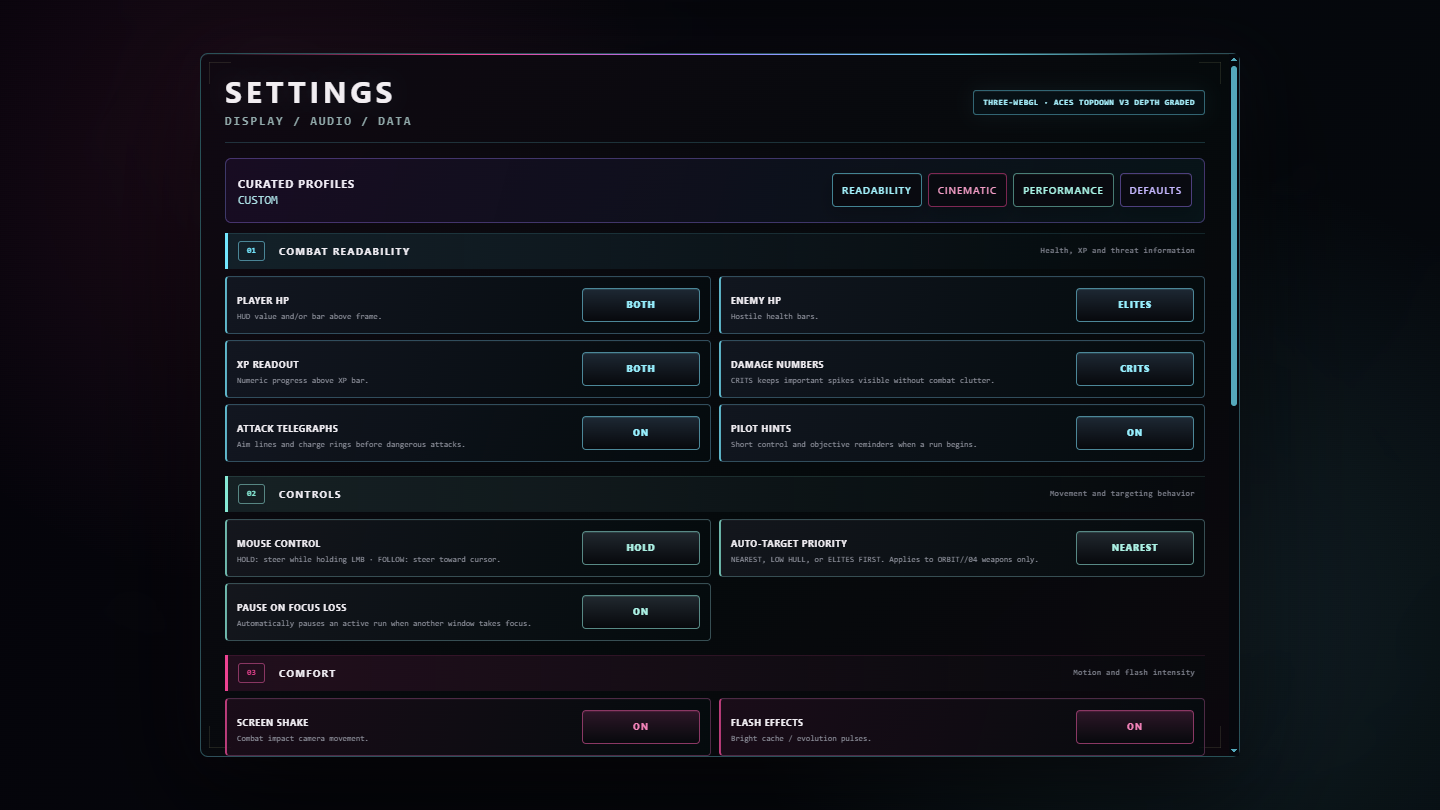
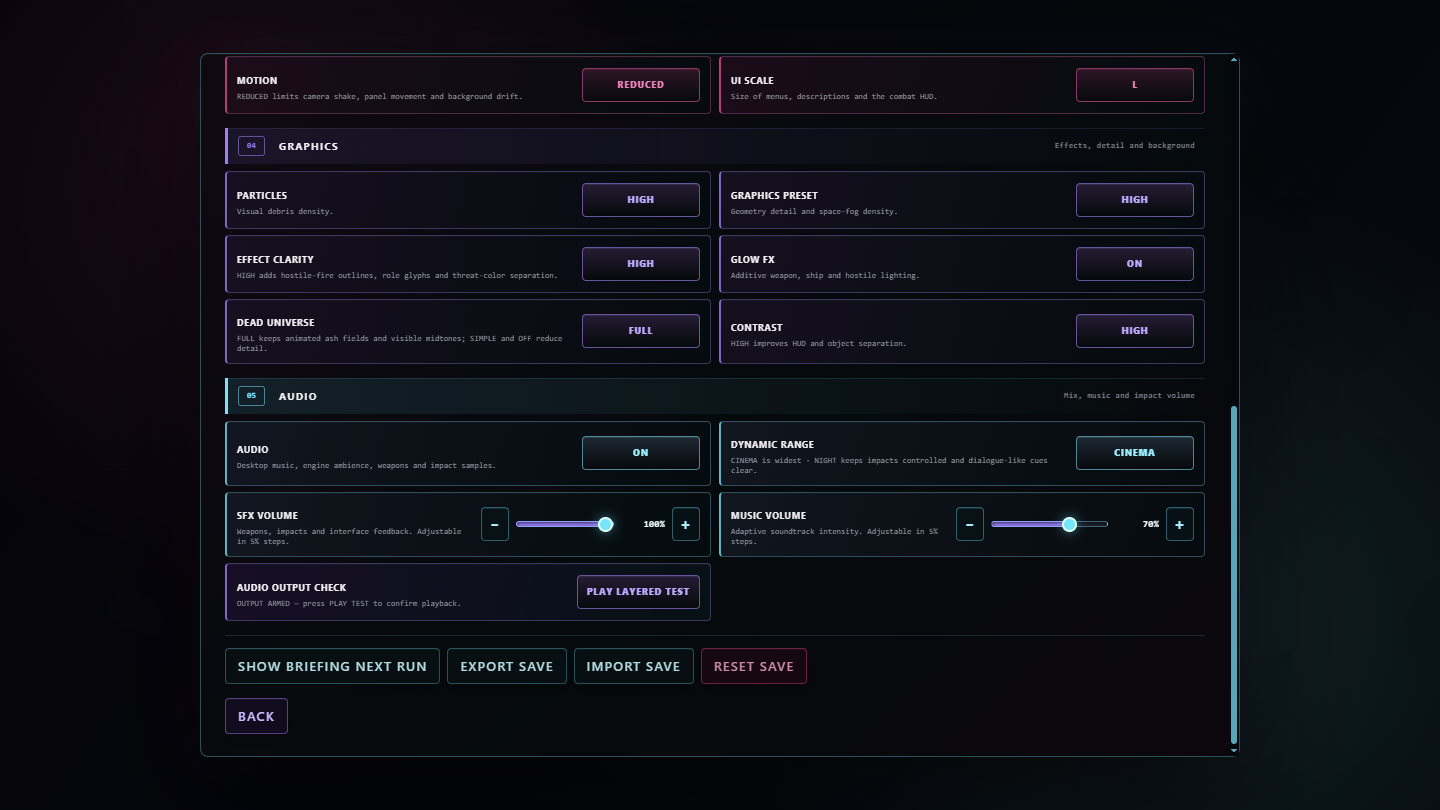
feat: sharpen release presentation and audio controls

diff --git a/game.js b/game.js
@@ -153,7 +153,7 @@ const AUDIO=(()=>{
   function playSample(name,value=0,boost=1,position=null){const mapped=sampleMap[name],key=Array.isArray(mapped)?mapped[(Math.random()*mapped.length)|0]:mapped;if(!key||!audioScene?.cache.audio.exists(`audio-${key}`))return false;attempts++;recoverManager();const profile=mixProfile(),base=mixValue(save.settings.sfxVolume,1),routine=['pulse','kill','enemyShot','drone','flak'].includes(name),micro=(Math.random()-.5)*(routine?.024:.014),rate=(name==='kill'?.92+Math.random()*.09:name==='elite'?.94+Math.random()*.045:name==='enemyShot'?.97+Math.random()*.045:name==='crit'?.99:name==='install'?.97:1)+micro,impact=['boss','bossDown','death','nova','rift','mine','hit','elite','rail','flak'].includes(name),level=VOICE_LEVELS[name]??.60,space=spatialMix(position),activeEnemies=state?.enemies?.reduce?.((count,enemy)=>count+(!enemy.dead?1:0),0)||0,crowdAttenuation=routine?1-Math.min(.34,Math.max(0,activeEnemies-54)*.0034):1,volume=base*level*profile.sfx*(impact?profile.impact:1)*boost*space.gain*crowdAttenuation,config={volume:clamp(volume,0,1),rate:clamp(rate,.78,1.14),pan:space.pan};try{const played=audioScene.sound.play(`audio-${key}`,config);if(played===false){lastError=`Sample playback rejected: ${key}`;return false}if(Math.abs(space.pan)>.02)spatialVoices++;const layer=cinematicLayers[name];if(layer&&audioScene.cache.audio.exists(`audio-${layer.key}`))audioScene.sound.play(`audio-${layer.key}`,{volume:clamp(base*profile.sfx*profile.impact*layer.volume*boost*space.gain,0,1),rate:layer.rate,pan:space.pan*.65});const material=materialLayers[name];if(material&&audioScene.cache.audio.exists(`audio-${material.key}`))audioScene.sound.play(`audio-${material.key}`,{volume:clamp(base*profile.sfx*material.volume*boost*space.gain,0,1),rate:material.rate,pan:space.pan});lastSuccess=performance.now();lastError='';return true}catch(error){lastError=error?.message||String(error);return false}}
   function updateSampleMusic(info={}){
     const keys=['exploration','exploration_alt','combat','combat_alt','pressure','boss','boss_alt','climax','fracture'];if(!audioScene||keys.some(k=>!audioScene.cache.audio.exists(`audio-music_${k}`))||!unlockSamples())return false;
-    if(!enabled()||save.settings.musicVolume==='OFF'){for(const track of Object.values(musicTracks))track.stop();ambienceTrack?.stop();return true}
+    if(!enabled()||mixValue(save.settings.musicVolume,.7)<=0){for(const track of Object.values(musicTracks))track.stop();ambienceTrack?.stop();return true}
     try{for(const key of keys){if(!musicTracks[key]){const track=audioScene.sound.add(`audio-music_${key}`,{loop:true,volume:0});track._orbitGain=0;musicTracks[key]=track}if(!musicTracks[key].isPlaying&&!musicTracks[key].isPaused&&musicTracks[key].play()===false)return false}if(!ambienceTrack&&audioScene.cache.audio.exists('audio-engine_loop')){ambienceTrack=audioScene.sound.add('audio-engine_loop',{loop:true,volume:0,rate:.82});ambienceTrack._orbitGain=0}if(ambienceTrack&&!ambienceTrack.isPlaying&&!ambienceTrack.isPaused)ambienceTrack.play()}catch(error){lastError=error?.message||String(error);return false}
     musicDuck+=(1-musicDuck)*.016;const threat=info.threat||1,drive=info.drive||0,chain=info.chain||0,pressure=clamp((threat-1)*.105+drive*.12+Math.min(.18,chain*.004)+(info.rush?.32:0)+(info.redline?.10:0),0,1),passage=Math.floor((info.time||0)/56)%4,bossAlternate=(Math.floor((info.time||0)/32)+(info.bossStage||0))%2===0,bossPhase=info.bossPhase||1,targets={exploration:0,exploration_alt:0,combat:0,combat_alt:0,pressure:0,boss:0,boss_alt:0,climax:0,fracture:0};
     if(passage!==musicPassage){musicPassage=passage;musicRotationCount++}
@@ -452,6 +452,7 @@ function cycleUnlockedFrame(direction=1){
 function renderMenu(){
   $('saveLine').textContent=`${save.credits} CR · BEST ${Math.floor(save.bestScore)}`;
   $('researchLevelText').textContent=researchLevels();$('achievementCountText').textContent=`${save.achievements.length}/${Object.keys(ACHIEVEMENTS).length}`;$('lifetimeKillsText').textContent=save.totalKills;$('operationCountText').textContent=`${save.claimedOperations.length}/${Object.keys(OPERATIONS).length}${readyOperations().length?` · ${readyOperations().length} READY`:''}`;
+  $('contentFrameCount').textContent=Object.keys(SHIPS).length;$('contentWeaponCount').textContent=Object.keys(WEAPON_META).length;$('contentEnemyCount').textContent=Object.keys(ENEMY_META).filter(id=>id!=='boss').length;$('contentLinkCount').textContent=Object.keys(SYNERGIES).length;$('contentSectorCount').textContent=Object.keys(SECTORS).length;
   const d=DIFFICULTIES[save.difficulty]||DIFFICULTIES.STANDARD;$('difficultyBtn').textContent=d.name;$('difficultyBtn').title=d.desc;$('difficultyBtn').setAttribute('aria-label',`Current difficulty: ${d.name}. ${d.desc}`);$('difficultyDesc').textContent=d.desc;const contract=CONTRACTS[save.contract]||CONTRACTS.NONE;$('contractBtn').textContent=contract.name;$('contractBtn').title=contract.desc;$('contractBtn').setAttribute('aria-label',`Current contract: ${contract.name}. ${contract.desc}`);$('contractDesc').textContent=contract.desc;const sector=SECTORS[save.sector]||SECTORS.AURORA;$('sectorBtn').textContent=sector.name;$('sectorBtn').title=sector.desc;$('sectorBtn').setAttribute('aria-label',`Current sector: ${sector.name}. ${sector.desc}`);$('sectorDesc').textContent=sector.desc;
   const selectedId=save.unlocked.includes(save.selected)&&SHIPS[save.selected]?save.selected:'striker';if(save.selected!==selectedId)save.selected=selectedId;renderFrameBrief(selectedId);
   const selectedShip=SHIPS[selectedId];$('launchSummary').innerHTML=`<span>${uiIconMarkup('launch')} READY</span><b>${selectedShip.name}</b><i>${uiIconMarkup('sector')} ${sector.name} <em>·</em> ${uiIconMarkup('threat')} ${d.name} <em>·</em> ${uiIconMarkup('contract')} ${contract.name}</i>`;$('startBtn').innerHTML=`${uiIconMarkup('launch')}<span>DEPLOY ${selectedShip.name}</span><kbd>ENTER</kbd>`;
@@ -488,8 +489,9 @@ function renderCodex(){
     for(const [id,x] of Object.entries(ARTIFACTS)){const known=save.discoveredArtifacts.includes(id),d=document.createElement('div');d.className='codexCard';d.innerHTML=`<b>${known?x.name:'UNKNOWN ARTIFACT'}</b><span>${known?x.desc:'Rare telemetry not yet recovered.'}</span>`;c.appendChild(d)}
   }
 }
-const SETTING_CYCLES={playerHp:['OFF','HUD','BAR','BOTH'],enemyHp:['OFF','ELITES','ALL'],xpReadout:['OFF','VALUE','PERCENT','BOTH'],damageNumbers:['CRITS','ALL','OFF'],telegraphs:['ON','OFF'],hints:['ON','OFF'],mouse:['HOLD','FOLLOW','OFF'],targetPriority:['NEAREST','LOW HULL','ELITES FIRST'],autoPause:['ON','OFF'],shake:['ON','OFF'],flash:['ON','OFF'],motion:['FULL','REDUCED'],uiScale:['LARGE','XL','XXL'],particles:['HIGH','LOW','OFF'],graphics:['ULTRA','HIGH','MEDIUM','LOW'],effectClarity:['HIGH','BALANCED','CINEMATIC'],glow:['ON','OFF'],background:['FULL','SIMPLE','OFF'],contrast:['NORMAL','HIGH'],audio:['ON','OFF'],audioMix:['CINEMA','BALANCED','NIGHT'],sfxVolume:['100%','75%','50%','25%'],musicVolume:['100%','70%','40%','OFF']};
-const SETTING_BUTTONS={playerHp:'playerHpSetting',enemyHp:'enemyHpSetting',xpReadout:'xpSetting',damageNumbers:'damageNumbersSetting',telegraphs:'telegraphSetting',hints:'hintsSetting',mouse:'mouseSetting',targetPriority:'targetPrioritySetting',autoPause:'autoPauseSetting',shake:'shakeSetting',flash:'flashSetting',motion:'motionSetting',uiScale:'uiScaleSetting',particles:'particleSetting',graphics:'graphicsSetting',effectClarity:'effectClaritySetting',glow:'glowSetting',background:'backgroundSetting',contrast:'contrastSetting',audio:'audioSetting',audioMix:'audioMixSetting',sfxVolume:'sfxVolumeSetting',musicVolume:'musicVolumeSetting'};
+const SETTING_CYCLES={playerHp:['OFF','HUD','BAR','BOTH'],enemyHp:['OFF','ELITES','ALL'],xpReadout:['OFF','VALUE','PERCENT','BOTH'],damageNumbers:['CRITS','ALL','OFF'],telegraphs:['ON','OFF'],hints:['ON','OFF'],mouse:['HOLD','FOLLOW','OFF'],targetPriority:['NEAREST','LOW HULL','ELITES FIRST'],autoPause:['ON','OFF'],shake:['ON','OFF'],flash:['ON','OFF'],motion:['FULL','REDUCED'],uiScale:['LARGE','XL','XXL'],particles:['HIGH','LOW','OFF'],graphics:['ULTRA','HIGH','MEDIUM','LOW'],effectClarity:['HIGH','BALANCED','CINEMATIC'],glow:['ON','OFF'],background:['FULL','SIMPLE','OFF'],contrast:['NORMAL','HIGH'],audio:['ON','OFF'],audioMix:['CINEMA','BALANCED','NIGHT']};
+const SETTING_BUTTONS={playerHp:'playerHpSetting',enemyHp:'enemyHpSetting',xpReadout:'xpSetting',damageNumbers:'damageNumbersSetting',telegraphs:'telegraphSetting',hints:'hintsSetting',mouse:'mouseSetting',targetPriority:'targetPrioritySetting',autoPause:'autoPauseSetting',shake:'shakeSetting',flash:'flashSetting',motion:'motionSetting',uiScale:'uiScaleSetting',particles:'particleSetting',graphics:'graphicsSetting',effectClarity:'effectClaritySetting',glow:'glowSetting',background:'backgroundSetting',contrast:'contrastSetting',audio:'audioSetting',audioMix:'audioMixSetting'};
+const VOLUME_CONTROLS={sfxVolume:{slider:'sfxVolumeSlider',output:'sfxVolumeSetting',down:'sfxVolumeDown',up:'sfxVolumeUp',fallback:100},musicVolume:{slider:'musicVolumeSlider',output:'musicVolumeSetting',down:'musicVolumeDown',up:'musicVolumeUp',fallback:70}};
 const SETTING_PRESETS={
   READABILITY:{label:'READABILITY',values:{playerHp:'BOTH',enemyHp:'ALL',xpReadout:'BOTH',damageNumbers:'CRITS',telegraphs:'ON',targetPriority:'NEAREST',autoPause:'ON',shake:'OFF',flash:'OFF',motion:'REDUCED',uiScale:'XXL',particles:'LOW',graphics:'HIGH',effectClarity:'HIGH',glow:'ON',background:'SIMPLE',contrast:'HIGH',audioMix:'NIGHT'}},
   CINEMATIC:{label:'CINEMATIC',values:{playerHp:'BOTH',enemyHp:'ELITES',xpReadout:'BOTH',damageNumbers:'CRITS',telegraphs:'ON',targetPriority:'NEAREST',autoPause:'ON',shake:'ON',flash:'ON',motion:'FULL',uiScale:'XL',particles:'HIGH',graphics:'ULTRA',effectClarity:'CINEMATIC',glow:'ON',background:'FULL',contrast:'NORMAL',audioMix:'CINEMA'}},
@@ -500,10 +502,14 @@ const PRESET_BUTTONS={READABILITY:'readabilityPresetBtn',CINEMATIC:'cinematicPre
 function applyDisplaySettings(){wrap.dataset.uiScale=save.settings.uiScale||'XL';wrap.dataset.contrast=save.settings.contrast||'HIGH';wrap.dataset.motion=save.settings.motion||'FULL';wrap.dataset.effectClarity=save.settings.effectClarity||'HIGH';AUDIO.setMix()}
 function matchingSettingsPreset(){return Object.entries(SETTING_PRESETS).find(([_id,preset])=>Object.entries(preset.values).every(([key,value])=>save.settings[key]===value))?.[0]||''}
 function renderAudioStatus(){const audio=AUDIO.status();$('audioStatusText').textContent=!audio.enabled?'MUTED IN GAME — set AUDIO to ON or press PLAY TEST.':audio.muted?'OUTPUT MUTED BY RENDERER — press PLAY TEST.':audio.confirmed?`OUTPUT ACTIVE — ${audio.mix} MIX · ${audio.library} · music ${audio.musicPlaying} · engine ${audio.ambiencePlaying?'ON':'STANDBY'}.`:audio.error?`OUTPUT ERROR — ${audio.error}`:audio.locked?'WAITING FOR INPUT — click PLAY TEST to unlock audio.':`OUTPUT ARMED — press PLAY TEST to confirm playback.`}
-function renderSettings(){applyDisplaySettings();for(const [k,id] of Object.entries(SETTING_BUTTONS))$(id).textContent=save.settings[k];const active=matchingSettingsPreset();$('settingsPresetStatus').textContent=active?`${SETTING_PRESETS[active].label} ACTIVE`:'CUSTOM';for(const [id,buttonId] of Object.entries(PRESET_BUTTONS))$(buttonId).classList.toggle('selected',id===active);const renderer=(canvas.dataset.renderer||'initializing').toUpperCase(),pipeline=(canvas.dataset.renderPipeline||'adaptive').replaceAll('-',' ').toUpperCase();$('rendererStatusText').textContent=`${renderer} · ${pipeline}`;renderAudioStatus()}
+function volumePercent(value,fallback=100){if(value==='OFF')return 0;const parsed=parseInt(value,10);return Number.isFinite(parsed)?clamp(Math.round(parsed/5)*5,0,100):fallback}
+function renderVolumeControls(){for(const [key,control] of Object.entries(VOLUME_CONTROLS)){const value=volumePercent(save.settings[key],control.fallback);$(control.slider).value=String(value);$(control.output).textContent=`${value}%`;$(control.output).value=`${value}%`;$(control.slider).style.setProperty('--volume-fill',`${value}%`)}}
+function setVolumeSetting(key,raw,{commit=true,feedback=false}={}){const control=VOLUME_CONTROLS[key];if(!control)return false;const value=volumePercent(raw,control.fallback);save.settings[key]=`${value}%`;renderVolumeControls();AUDIO.setMix();if(commit)persist(false);if(feedback&&value>0)AUDIO.sfx('ui');return value}
+function nudgeVolume(key,direction){const control=VOLUME_CONTROLS[key],current=volumePercent(save.settings[key],control?.fallback||100);return setVolumeSetting(key,current+(direction<0?-5:5),{commit:true,feedback:true})}
+function renderSettings(){applyDisplaySettings();for(const [k,id] of Object.entries(SETTING_BUTTONS))$(id).textContent=save.settings[k];renderVolumeControls();const active=matchingSettingsPreset();$('settingsPresetStatus').textContent=active?`${SETTING_PRESETS[active].label} ACTIVE`:'CUSTOM';for(const [id,buttonId] of Object.entries(PRESET_BUTTONS))$(buttonId).classList.toggle('selected',id===active);const renderer=(canvas.dataset.renderer||'initializing').toUpperCase(),pipeline=(canvas.dataset.renderPipeline||'adaptive').replaceAll('-',' ').toUpperCase();$('rendererStatusText').textContent=`${renderer} · ${pipeline}`;renderAudioStatus()}
 function cycleSetting(key){const a=SETTING_CYCLES[key],i=Math.max(0,a.indexOf(save.settings[key]));save.settings[key]=a[(i+1)%a.length];persist(false);if(key==='audio')AUDIO.syncEnabled();renderSettings();AUDIO.sfx('ui')}
 function applySettingsPreset(id){const preset=SETTING_PRESETS[id];if(!preset)return false;Object.assign(save.settings,preset.values);persist(false);renderSettings();AUDIO.sfx('ui');toast(`${preset.label} PROFILE`,'Settings applied. Individual controls remain editable.');return true}
-function testAudioOutput(){if(save.settings.audio!=='ON')save.settings.audio='ON';if(save.settings.sfxVolume==='25%')save.settings.sfxVolume='50%';persist(false);AUDIO.syncEnabled();AUDIO.testOutput();renderSettings();setTimeout(renderAudioStatus,320);toast('AUDIO OUTPUT CHECK','Layered startup cue sent through both audio paths.')}
+function testAudioOutput(){if(save.settings.audio!=='ON')save.settings.audio='ON';if(volumePercent(save.settings.sfxVolume,100)<25)save.settings.sfxVolume='50%';persist(false);AUDIO.syncEnabled();AUDIO.testOutput();renderSettings();setTimeout(renderAudioStatus,320);toast('AUDIO OUTPUT CHECK','Layered startup cue sent through both audio paths.')}
 function openOverlay(id){if(state?.mode==='run'&&!state.paused&&!state.choosing)pause(true);show(id);AUDIO.sfx('ui')}
 function closeOverlay(id){hide(id);AUDIO.sfx('ui')}
 
@@ -512,7 +518,10 @@ $('sectorPrev').onclick=()=>{AUDIO.sfx('ui');nextSector(-1)};$('sectorBtn').oncl
 $('contractPrev').onclick=()=>{AUDIO.sfx('ui');nextContract(-1)};$('contractBtn').onclick=$('contractNext').onclick=()=>{AUDIO.sfx('ui');nextContract(1)};
 $('researchBtn').onclick=()=>{renderResearch();openOverlay('researchScreen')};$('operationsBtn').onclick=()=>{renderOperations();openOverlay('operationsScreen')};$('achievementsBtn').onclick=()=>{renderAchievements();openOverlay('achievementsScreen')};$('codexBtn').onclick=()=>{renderCodex();openOverlay('codexScreen')};
 $('settingsBtn').onclick=()=>{renderSettings();openOverlay('settingsScreen')};$('pauseSettingsBtn').onclick=()=>{renderSettings();show('settingsScreen')};$('settingsBackBtn').onclick=()=>closeOverlay('settingsScreen');
+function applyRecommendedSetup(){const changed=save.difficulty!=='STANDARD'||save.sector!=='AURORA'||save.contract!=='NONE';save.difficulty='STANDARD';save.sector='AURORA';save.contract='NONE';persist(false);renderMenu();AUDIO.sfx('ui');toast(changed?'RECOMMENDED SETUP APPLIED':'RECOMMENDED SETUP ACTIVE','Standard threat · The Ash Field · No contract modifiers.');return changed}
+$('recommendedSetupBtn').onclick=applyRecommendedSetup;
 for(const [k,id] of Object.entries(SETTING_BUTTONS))$(id).onclick=()=>cycleSetting(k);
+for(const [key,control] of Object.entries(VOLUME_CONTROLS)){const slider=$(control.slider);slider.oninput=()=>setVolumeSetting(key,slider.value,{commit:false});slider.onchange=()=>setVolumeSetting(key,slider.value,{commit:true,feedback:key==='sfxVolume'});$(control.down).onclick=()=>nudgeVolume(key,-1);$(control.up).onclick=()=>nudgeVolume(key,1)}
 for(const [id,buttonId] of Object.entries(PRESET_BUTTONS))$(buttonId).onclick=()=>applySettingsPreset(id);
 $('testAudioBtn').onclick=testAudioOutput;
 for(const b of document.querySelectorAll('[data-close]'))b.onclick=()=>closeOverlay(b.dataset.close);
@@ -775,9 +784,12 @@ $('skipBtn').onclick=()=>{if(state.skips<=0)return;state.skips--;state.pinnedOff
 addEventListener('keydown',e=>{if(!state?.choosing)return;const i=Number(e.key)-1;if(i<0)return;if(state.choiceMode==='doctrine'){const o=state.currentDoctrineOffers?.[i];if(o)selectDoctrine(o.id)}else{const o=state.currentOffers?.[i];if(o)selectOffer(o)}});
 
 // ---------- RUN START / SPAWNING ----------
-function openPilotBriefing(){if(!state||state.gameOver)return false;state.paused=true;show('briefingScreen');$('briefingLaunchBtn').focus?.({preventScroll:true});return true}
-function dismissPilotBriefing(){if(!$('briefingScreen').classList.contains('show')||!state)return false;hide('briefingScreen');save.briefingSeen=true;persist(false);state.paused=false;state.last=performance.now();AUDIO.sfx('resume');rewardCue('AUTO-FIRE ONLINE','MOVE · COLLECT · INSTALL · SURVIVE',1,1300);return true}
+let briefingPreviewMode=false;
+function previewPilotBriefing(){briefingPreviewMode=true;show('briefingScreen');$('briefingLaunchBtn').innerHTML=`RETURN TO HANGAR <kbd>ESC</kbd>`;$('briefingLaunchBtn').focus?.({preventScroll:true});AUDIO.sfx('ui');return true}
+function openPilotBriefing(){if(!state||state.gameOver)return false;briefingPreviewMode=false;state.paused=true;$('briefingLaunchBtn').innerHTML=`BEGIN TRANSMISSION <kbd>ENTER</kbd>`;show('briefingScreen');$('briefingLaunchBtn').focus?.({preventScroll:true});return true}
+function dismissPilotBriefing(){if(!$('briefingScreen').classList.contains('show'))return false;hide('briefingScreen');if(briefingPreviewMode){briefingPreviewMode=false;save.briefingSeen=true;persist(false);$('briefingMenuBtn').focus?.({preventScroll:true});AUDIO.sfx('ui');return true}if(!state)return false;save.briefingSeen=true;persist(false);state.paused=false;state.last=performance.now();AUDIO.sfx('resume');rewardCue('AUTO-FIRE ONLINE','MOVE · COLLECT · INSTALL · SURVIVE',1,1300);return true}
 $('briefingLaunchBtn').onclick=dismissPilotBriefing;
+$('briefingMenuBtn').onclick=previewPilotBriefing;
 function startRun(){
   cancelResumeCountdown(false);
   const frame=SHIPS[save.selected],diff=DIFFICULTIES[save.difficulty]||DIFFICULTIES.STANDARD,contract=CONTRACTS[save.contract]||CONTRACTS.NONE,sector=SECTORS[save.sector]||SECTORS.AURORA,now=performance.now(),mastery=masteryLevel(save.selected),directiveId=selectFieldDirective();

diff --git a/tests/smoke.js b/tests/smoke.js
@@ -38,7 +38,7 @@ vm.runInContext(`
   bootRenderer();
   if(rendererConfig?.type!==Phaser.WEBGL) throw new Error('renderer type must be explicit when using a custom canvas');
   if(!rendererConfig.render.antialiasGL||!rendererConfig.render.desynchronized||rendererConfig.fps.target!==120) throw new Error('premium renderer profile is incomplete');
-  save.settings.audio='OFF';document.getElementById('difficultyPrev').onclick();if(save.difficulty!=='HARDLINE') throw new Error('previous difficulty control failed');document.getElementById('difficultyNext').onclick();if(save.difficulty!=='STANDARD') throw new Error('next difficulty control failed');document.getElementById('contractPrev').onclick();if(save.contract!=='FRAGILE') throw new Error('previous contract control failed');document.getElementById('contractNext').onclick();if(save.contract!=='NONE') throw new Error('next contract control failed');if(!document.getElementById('launchSummary').innerHTML.includes('WATCHKEEPER')||!document.getElementById('startBtn').innerHTML.includes('DEPLOY WATCHKEEPER')||!document.getElementById('startBtn').innerHTML.includes('ENTER')) throw new Error('deployment summary is incomplete');if(!document.getElementById('framePrevBtn').disabled||!document.getElementById('frameNextBtn').disabled)throw new Error('single-frame hangar navigation should be disabled');save.unlocked.push('bastion');if(!cycleUnlockedFrame(1)||save.selected!=='bastion')throw new Error('next-frame hangar shortcut failed');if(!cycleUnlockedFrame(-1)||save.selected!=='striker')throw new Error('previous-frame hangar shortcut failed');save.unlocked.pop();renderMenu();
+  save.settings.audio='OFF';document.getElementById('difficultyPrev').onclick();if(save.difficulty!=='HARDLINE') throw new Error('previous difficulty control failed');document.getElementById('difficultyNext').onclick();if(save.difficulty!=='STANDARD') throw new Error('next difficulty control failed');document.getElementById('contractPrev').onclick();if(save.contract!=='FRAGILE') throw new Error('previous contract control failed');document.getElementById('contractNext').onclick();if(save.contract!=='NONE') throw new Error('next contract control failed');if(!document.getElementById('launchSummary').innerHTML.includes('WATCHKEEPER')||!document.getElementById('startBtn').innerHTML.includes('DEPLOY WATCHKEEPER')||!document.getElementById('startBtn').innerHTML.includes('ENTER')) throw new Error('deployment summary is incomplete');if(Number(document.getElementById('contentFrameCount').textContent)!==10||Number(document.getElementById('contentWeaponCount').textContent)!==11||Number(document.getElementById('contentEnemyCount').textContent)!==13||Number(document.getElementById('contentLinkCount').textContent)!==9||Number(document.getElementById('contentSectorCount').textContent)!==4)throw new Error('menu content proof does not match runtime data');save.difficulty='BLACKOUT';save.sector='NULL';save.contract='SWARM';if(!applyRecommendedSetup()||save.difficulty!=='STANDARD'||save.sector!=='AURORA'||save.contract!=='NONE')throw new Error('recommended first-run setup failed');save.briefingSeen=false;if(!previewPilotBriefing()||!document.getElementById('briefingScreen').classList.contains('show')||!dismissPilotBriefing()||document.getElementById('briefingScreen').classList.contains('show')||!save.briefingSeen)throw new Error('menu pilot guide preview failed');if(!document.getElementById('framePrevBtn').disabled||!document.getElementById('frameNextBtn').disabled)throw new Error('single-frame hangar navigation should be disabled');save.unlocked.push('bastion');if(!cycleUnlockedFrame(1)||save.selected!=='bastion')throw new Error('next-frame hangar shortcut failed');if(!cycleUnlockedFrame(-1)||save.selected!=='striker')throw new Error('previous-frame hangar shortcut failed');save.unlocked.pop();renderMenu();
   if(selectFieldDirective()!=='recovery') throw new Error('first directive rotation is incorrect');save.runs=1;if(selectFieldDirective()!=='transit') throw new Error('second directive rotation is incorrect');save.runs=2;if(selectFieldDirective()!=='attrition') throw new Error('third directive rotation is incorrect');save.runs=0;startRun();
   save.briefingSeen=false;if(!openPilotBriefing()||!state.paused||!document.getElementById('briefingScreen').classList.contains('show'))throw new Error('first-deployment briefing did not suspend the run');if(!dismissPilotBriefing()||state.paused||!save.briefingSeen||document.getElementById('briefingScreen').classList.contains('show'))throw new Error('first-deployment briefing did not persist completion');
   const exitProbe=desktopExitState();if(!exitProbe.active||exitProbe.frame!=='WATCHKEEPER')throw new Error('desktop exit state did not identify the active run');document.getElementById('briefingResetBtn').onclick();if(save.briefingSeen)throw new Error('briefing replay control did not arm the next run');save.briefingSeen=true;
@@ -80,6 +80,7 @@ vm.runInContext(`
   state.time=83; if(desiredBackground()!=='pulsar') throw new Error('background director did not advance'); state.time=0;
   save.settings.uiScale='XXL'; save.settings.contrast='HIGH'; renderSettings();
   if(document.getElementById('wrap').dataset.uiScale!=='XXL'||document.getElementById('wrap').dataset.contrast!=='HIGH') throw new Error('display settings were not applied');
+  if(setVolumeSetting('sfxVolume',83)!==85||save.settings.sfxVolume!=='85%'||document.getElementById('sfxVolumeSlider').value!=='85'||document.getElementById('sfxVolumeSetting').textContent!=='85%')throw new Error('continuous SFX volume control failed');save.settings.musicVolume='70%';if(nudgeVolume('musicVolume',-1)!==65||save.settings.musicVolume!=='65%'||document.getElementById('musicVolumeSlider').value!=='65')throw new Error('music volume step control failed');if(setVolumeSetting('musicVolume','OFF')!==0||save.settings.musicVolume!=='0%')throw new Error('legacy muted music volume did not normalize');setVolumeSetting('sfxVolume',100);setVolumeSetting('musicVolume',70);
   state.xp=state.xpNeed*.8; updateHudVisuals();
   if(!document.getElementById('xpbar').classList.contains('imminent')||!document.getElementById('xptext').textContent.includes('XP TO NEXT SYSTEM')||document.getElementById('xpLevelValue').textContent!==state.level||!document.getElementById('xpNextValue').textContent.includes('XP')) throw new Error('level anticipation feedback failed');
   state.p.hp=state.p.maxHp*.42;updateHudVisuals();if(document.getElementById('shipStatus').classList.contains('hidden')||document.getElementById('shipStatus').dataset.state!=='damaged'||!document.getElementById('shipHullValue').textContent.includes('/')||parseFloat(document.getElementById('shipHullFill').style.width)<41)throw new Error('player hull HUD failed');signalDamageDirection({x:state.p.x+40,y:state.p.y});if(!document.getElementById('damageDirection').classList.contains('show')||!document.getElementById('damageDirection').style['--hit-angle'])throw new Error('damage bearing feedback failed');state.p.hp=state.p.maxHp;

diff --git a/styles.css b/styles.css
@@ -424,3 +424,16 @@ button:hover:not(:disabled){border-color:rgba(195,190,140,.78);background:linear
 @media(max-width:820px){.briefingSteps{grid-template-columns:1fr}.briefingSteps article{min-height:0}.briefingControls{grid-template-columns:1fr 1fr}.briefingFooter{align-items:stretch;flex-direction:column}.briefingFooter .primary{width:100%}}
 @media(max-width:700px){#titleScreen .titleFooter{align-items:stretch;flex-direction:column}#titleScreen .quitDesktopBtn{align-self:flex-end}.briefingPanel{padding:18px}.briefingControls{grid-template-columns:1fr}}
 @media(prefers-reduced-motion:reduce){.briefingPanel{animation:none!important}}
+
+/* Store-facing value clarity: factual content depth, premium ownership promise, and low-friction onboarding. */
+#titleScreen .titlePanel{max-height:98%}
+.releaseOverview{margin-top:7px;padding:7px 9px 8px;border:1px solid rgba(53,231,255,.22);border-radius:5px;background:linear-gradient(105deg,rgba(20,7,20,.78),rgba(3,14,17,.88) 58%,rgba(14,8,24,.78));box-shadow:inset 0 1px rgba(255,255,255,.035),0 12px 30px rgba(0,0,0,.18)}
+.releaseOverviewHeading{display:flex;align-items:flex-end;justify-content:space-between;gap:14px;margin-bottom:5px}.releaseOverviewHeading span{display:block;font:850 calc(6.4px * var(--ui-scale))/1 var(--mono);letter-spacing:.17em;color:#6beaff}.releaseOverviewHeading h2{margin:3px 0 0;font-size:calc(9.5px * var(--ui-scale));letter-spacing:.105em;color:#f0edf2}.releaseOverviewHeading p{display:flex;align-items:center;justify-content:flex-end;gap:5px;margin:0;font:800 calc(6.2px * var(--ui-scale))/1 var(--mono);letter-spacing:.08em;color:#858b95}.releaseOverviewHeading p>*{padding:2px 4px;border:1px solid rgba(98,234,213,.20);border-radius:2px;font-style:normal}.releaseOverviewHeading p>b{border-color:rgba(98,234,213,.38);color:#7ef1df}
+.releaseMetrics{display:grid;grid-template-columns:repeat(5,minmax(0,1fr));gap:6px}.releaseMetrics>div{--metric-color:#35e7ff;position:relative;min-width:0;padding:5px 7px 6px;overflow:hidden;border:1px solid color-mix(in srgb,var(--metric-color) 25%,#292530);border-left:2px solid var(--metric-color);border-radius:3px;background:linear-gradient(115deg,color-mix(in srgb,var(--metric-color) 6%,rgba(12,8,17,.88)),rgba(2,10,13,.82));transition:border-color .16s ease,background .16s ease,transform .16s ease}.releaseMetrics>div[data-tone="weapon"]{--metric-color:#ff3d91}.releaseMetrics>div[data-tone="enemy"]{--metric-color:#ff6b52}.releaseMetrics>div[data-tone="link"]{--metric-color:#9f7cff}.releaseMetrics>div[data-tone="route"]{--metric-color:#62ead5}.releaseMetrics>div:hover{transform:translateY(-1px);border-color:color-mix(in srgb,var(--metric-color) 48%,#302b37);background:linear-gradient(115deg,color-mix(in srgb,var(--metric-color) 10%,rgba(14,7,18,.92)),rgba(2,12,15,.90))}.releaseMetrics b{display:block;font:900 calc(14px * var(--ui-scale))/1 var(--mono);color:var(--metric-color);text-shadow:0 0 14px color-mix(in srgb,var(--metric-color) 24%,transparent)}.releaseMetrics span{display:block;margin-top:2px;overflow:hidden;text-overflow:ellipsis;white-space:nowrap;font:850 calc(6.5px * var(--ui-scale))/1 var(--mono);letter-spacing:.08em;color:#e8e4eb}.releaseMetrics small{display:block;margin-top:3px;overflow:hidden;text-overflow:ellipsis;white-space:nowrap;font:600 calc(6.2px * var(--ui-scale))/1 var(--mono);color:#757985}
+#titleScreen .recommendedSetupBtn{min-height:0;padding:5px 7px;border-color:rgba(98,234,213,.34);background:rgba(4,20,21,.72);font:800 calc(6.5px * var(--ui-scale))/1 var(--mono);letter-spacing:.07em;color:#85ded3}#titleScreen .recommendedSetupBtn:hover{border-color:#62ead5;background:rgba(7,39,38,.84);color:#c8fff7;box-shadow:0 0 15px rgba(98,234,213,.08)}
+#titleScreen #briefingMenuBtn .uiIcon{color:#62ead5}
+.volumeSettingRow{overflow:visible!important}.volumeControl{display:grid;grid-template-columns:28px minmax(92px,1fr) 44px 28px;align-items:center;gap:7px;flex:0 1 270px;min-width:220px}.volumeControl button{display:grid;place-items:center;min-width:28px!important;width:28px;height:28px;padding:0!important;border-color:rgba(53,231,255,.36)!important;background:rgba(4,17,22,.88)!important;font:850 15px/1 var(--mono)!important;color:#8defff!important}.volumeControl button:hover{border-color:#62ead5!important;color:#d5fff8!important;box-shadow:0 0 15px rgba(53,231,255,.12)!important}.volumeControl output{min-width:44px;text-align:right;font:850 calc(9px * var(--ui-scale))/1 var(--mono);letter-spacing:.04em;color:#ecfaff}.volumeControl input[type="range"]{--volume-fill:70%;width:100%;height:18px;margin:0;appearance:none;background:transparent;cursor:pointer}.volumeControl input[type="range"]::-webkit-slider-runnable-track{height:6px;border:1px solid rgba(53,231,255,.34);border-radius:4px;background:linear-gradient(90deg,#9f7cff 0,var(--volume-fill),rgba(35,36,48,.88) var(--volume-fill),rgba(35,36,48,.88) 100%);box-shadow:inset 0 1px 3px rgba(0,0,0,.70)}.volumeControl input[type="range"]::-webkit-slider-thumb{width:15px;height:15px;margin-top:-5px;appearance:none;border:2px solid #d8ffff;border-radius:50%;background:#35e7ff;box-shadow:0 0 12px rgba(53,231,255,.55)}.volumeControl input[type="range"]:focus-visible{outline:1px solid #62ead5;outline-offset:4px}.volumeControl input[type="range"]:active::-webkit-slider-thumb{background:#ff3d91;box-shadow:0 0 15px rgba(255,61,145,.55)}
+@media(max-width:1050px){.releaseMetrics{grid-template-columns:repeat(3,1fr)}.releaseMetrics>div:nth-child(n+4){grid-column:span 1}.releaseOverviewHeading{align-items:flex-start;flex-direction:column}.releaseOverviewHeading p{justify-content:flex-start}}
+@media(max-width:650px){.releaseMetrics{grid-template-columns:1fr 1fr}.releaseMetrics>div:last-child{grid-column:1/-1}.releaseOverviewHeading p{align-items:flex-start;flex-wrap:wrap}.releaseMetrics small{white-space:normal}}
+@media(max-width:560px){.volumeSettingRow{align-items:stretch;flex-direction:column}.volumeControl{width:100%;min-width:0}}
+@media(prefers-reduced-motion:reduce){.releaseMetrics>div:hover{transform:none}}#wrap[data-motion="REDUCED"] .releaseMetrics>div:hover{transform:none}

diff --git a/index.html b/index.html
@@ -100,10 +100,23 @@
           </div>
           <div class="rosterHeading"><h2>FRAME BAY</h2><span id="frameRosterCount"></span></div>
           <div id="shipGrid" class="shipGrid"></div>
+          <section class="releaseOverview" aria-labelledby="releaseOverviewTitle">
+            <div class="releaseOverviewHeading">
+              <div><span>COMPLETE SURVIVAL PACKAGE</span><h2 id="releaseOverviewTitle">WHAT YOUR RUN CAN BECOME</h2></div>
+              <p><b>OFFLINE</b><i>NO ADS</i><i>NO MICROTRANSACTIONS</i></p>
+            </div>
+            <div class="releaseMetrics">
+              <div data-tone="frame"><b id="contentFrameCount">10</b><span>PLAYABLE FRAMES</span><small>Distinct starting weapons and traits</small></div>
+              <div data-tone="weapon"><b id="contentWeaponCount">11</b><span>WEAPON SYSTEMS</span><small>Every system has an evolution</small></div>
+              <div data-tone="enemy"><b id="contentEnemyCount">13</b><span>HOSTILE FORMS</span><small>Plus sovereign encounters</small></div>
+              <div data-tone="link"><b id="contentLinkCount">9</b><span>RESONANCE LINKS</span><small>Build interactions to discover</small></div>
+              <div data-tone="route"><b id="contentSectorCount">4</b><span>SECTORS</span><small>12-minute signal, then endless ascent</small></div>
+            </div>
+          </section>
         </div>
         <div class="sideMenu">
           <div class="menuFlow" aria-label="Deployment steps"><span><b>1</b> PICK SHIP</span><span><b>2</b> SET RUN</span><span><b>3</b> SURVIVE</span></div>
-          <div class="sectionHeading"><div><span>DEPLOYMENT</span><h2>MISSION SETUP</h2></div><i>3 CHOICES</i></div>
+          <div class="sectionHeading"><div><span>DEPLOYMENT</span><h2>MISSION SETUP</h2></div><button id="recommendedSetupBtn" class="recommendedSetupBtn" title="Restore the balanced first-run route">RECOMMENDED SETUP</button></div>
           <div class="runOption difficultyOption">
             <div class="runOptionHeader"><span><svg class="uiIcon optionIcon"><use href="#icon-threat"/></svg> DIFFICULTY</span><i>THREAT</i></div>
             <div class="optionStepper"><button id="difficultyPrev" class="stepArrow" aria-label="Previous difficulty">‹</button><button id="difficultyBtn" class="stepValue"></button><button id="difficultyNext" class="stepArrow" aria-label="Next difficulty">›</button></div>
@@ -136,6 +149,7 @@
             <button id="achievementsBtn"><svg class="uiIcon"><use href="#icon-achievements"/></svg><span>ACHIEVEMENTS</span></button>
             <button id="codexBtn"><svg class="uiIcon"><use href="#icon-codex"/></svg><span>CODEX / STATS</span></button>
             <button id="settingsBtn"><svg class="uiIcon"><use href="#icon-settings"/></svg><span>SETTINGS</span></button>
+            <button id="briefingMenuBtn"><svg class="uiIcon"><use href="#icon-codex"/></svg><span>HOW TO PLAY</span></button>
             <button id="supportBtn" class="hidden">SUPPORT DEVELOPMENT</button>
           </div>
         </div>
@@ -309,8 +323,8 @@
         <div class="settingsGroupHeader settings-cyan"><span>05</span><b>AUDIO</b><small>Mix, music and impact volume</small></div>
         <div class="settingRow"><div><b>AUDIO</b><div class="tiny">Desktop music, engine ambience, weapons and impact samples.</div></div><button id="audioSetting"></button></div>
         <div class="settingRow"><div><b>DYNAMIC RANGE</b><div class="tiny">CINEMA is widest · NIGHT keeps impacts controlled and dialogue-like cues clear.</div></div><button id="audioMixSetting"></button></div>
-        <div class="settingRow"><div><b>SFX VOLUME</b><div class="tiny">Weapons, impacts and interface feedback.</div></div><button id="sfxVolumeSetting"></button></div>
-        <div class="settingRow"><div><b>MUSIC VOLUME</b><div class="tiny">Adaptive soundtrack intensity.</div></div><button id="musicVolumeSetting"></button></div>
+        <div class="settingRow volumeSettingRow"><div><b>SFX VOLUME</b><div class="tiny">Weapons, impacts and interface feedback. Adjustable in 5% steps.</div></div><div class="volumeControl"><button id="sfxVolumeDown" aria-label="Decrease sound effects volume">−</button><input id="sfxVolumeSlider" type="range" min="0" max="100" step="5" value="100" aria-label="Sound effects volume"><output id="sfxVolumeSetting" for="sfxVolumeSlider">100%</output><button id="sfxVolumeUp" aria-label="Increase sound effects volume">+</button></div></div>
+        <div class="settingRow volumeSettingRow"><div><b>MUSIC VOLUME</b><div class="tiny">Adaptive soundtrack intensity. Adjustable in 5% steps.</div></div><div class="volumeControl"><button id="musicVolumeDown" aria-label="Decrease music volume">−</button><input id="musicVolumeSlider" type="range" min="0" max="100" step="5" value="70" aria-label="Music volume"><output id="musicVolumeSetting" for="musicVolumeSlider">70%</output><button id="musicVolumeUp" aria-label="Increase music volume">+</button></div></div>
         <div class="settingRow audioCheckRow"><div><b>AUDIO OUTPUT CHECK</b><div id="audioStatusText" class="tiny">Waiting for desktop mixer.</div></div><button id="testAudioBtn">PLAY LAYERED TEST</button></div>
       </div>
       <div class="dataActions"><button id="briefingResetBtn">SHOW BRIEFING NEXT RUN</button><button id="exportSaveBtn">EXPORT SAVE</button><button id="importSaveBtn">IMPORT SAVE</button><button id="resetSaveBtn" class="danger">RESET SAVE</button></div>

diff --git a/README.md b/README.md
@@ -29,6 +29,7 @@ The supported runtime is the top-down game loaded by `index.html`. Three.js is t
 
 - 10 configurations of the single ORBIT//04 ark, each with individual statistics, a starting weapon, and a trait
 - a focused launch hangar with an authentic vector preview of every frame, explicit previous/next deployment controls, comparable ratings, and a final launch summary
+- a data-driven content overview in the launch hangar that states the shipped frame, weapon, hostile, synergy, and sector counts alongside the offline, advertising-free ownership model
 - a one-screen first-deployment briefing that explains automatic fire, movement, upgrades, signal colors, keyboard controls, and standard gamepad controls without interrupting later runs
 - 11 automatic weapon systems rethemed around grief, survival instinct, memory, and absence
 - concise level-up cards that expose immediate impact and one nearest evolution or synergy without presenting the full build graph at once
@@ -59,6 +60,7 @@ The supported runtime is the top-down game loaded by `index.html`. Three.js is t
 - keyboard, mouse, and gamepad movement
 - native desktop exit handling that can bank an active run before closing instead of silently discarding earned progress
 - layered 48 kHz stereo sound playback with automatic context recovery, verified mixer status, mute warnings, and an in-game output check
+- independent 0–100% SFX and music sliders with 5% precision, immediate mix updates, and keyboard/gamepad adjustment controls
 - local save export, import, and reset controls
 
 Detailed balance targets are documented in [BALANCE.md](BALANCE.md). Historical changes are recorded in [CHANGELOG.md](CHANGELOG.md).
@@ -103,7 +105,7 @@ The renderer includes:
 
 ![ORBIT//04 version 0.92.0 studio launch hangar](docs/launch-hangar-v0.92.0.png)
 
-The launch hangar capture shows the selected runtime frame, compact visual frame bay, three icon-led mission decisions, collapsed optional progression data, and the single primary deployment action at the same 1440 × 810 presentation used by the desktop build. Cyan, magenta, acid green, violet, and amber identify functions and risk while the underlying surfaces remain damaged and near-black.
+The launch hangar capture shows the selected runtime frame, compact visual frame bay, three icon-led mission decisions, collapsed optional progression data, a factual five-part content overview, one-click recommended setup, and the single primary deployment action at the same 1440 × 810 presentation used by the desktop build. Its ownership strip states offline play, no advertising, and no microtransactions. Cyan, magenta, acid green, violet, and amber identify functions and risk while the underlying surfaces remain damaged and near-black.
 
 ![ORBIT//04 version 0.92.0 first-deployment pilot briefing](docs/pilot-briefing-v0.92.0.png)
 

diff --git a/CHANGELOG.md b/CHANGELOG.md
@@ -28,6 +28,12 @@
 - added controller hot-plug feedback and automatic run pausing when the active controller disconnects
 - added a visible `EXIT TO DESKTOP` action and native active-run confirmation that banks earned progress before closing
 - added deterministic Electron capture and overflow validation for the pilot briefing, and refreshed the launch hangar capture with the desktop exit control
+- added a factual launch-hangar content overview sourced directly from runtime data: frames, weapons, hostile forms, resonance links, and sectors
+- added a visible premium ownership promise for offline play without advertising or microtransactions
+- added one-click recommended first-run configuration and an immediately accessible `HOW TO PLAY` briefing without starting a run
+- expanded launch capture validation to reject missing ownership information or any horizontal or vertical clipping
+- replaced the misleading four-state SFX and music selectors with real 0–100% sliders, 5% adjustment steps, visible values, keyboard control, and gamepad-friendly minus/plus buttons
+- moved the automated settings capture to the audio section and made it reject missing, hidden, or incorrectly stepped volume controls
 
 ## 0.91.0 — Navigation and Survival HUD
 
